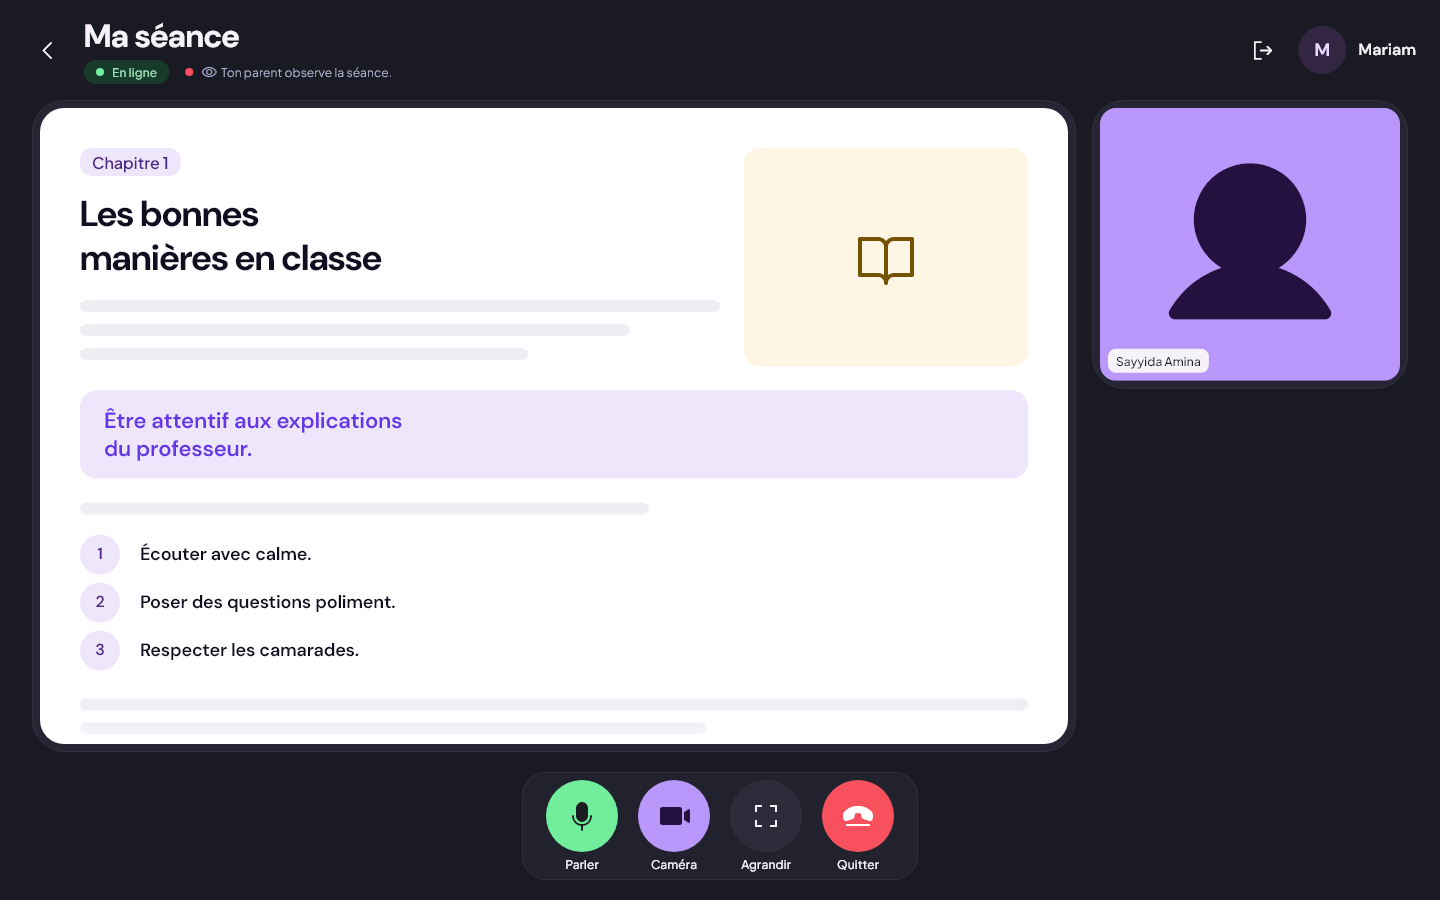
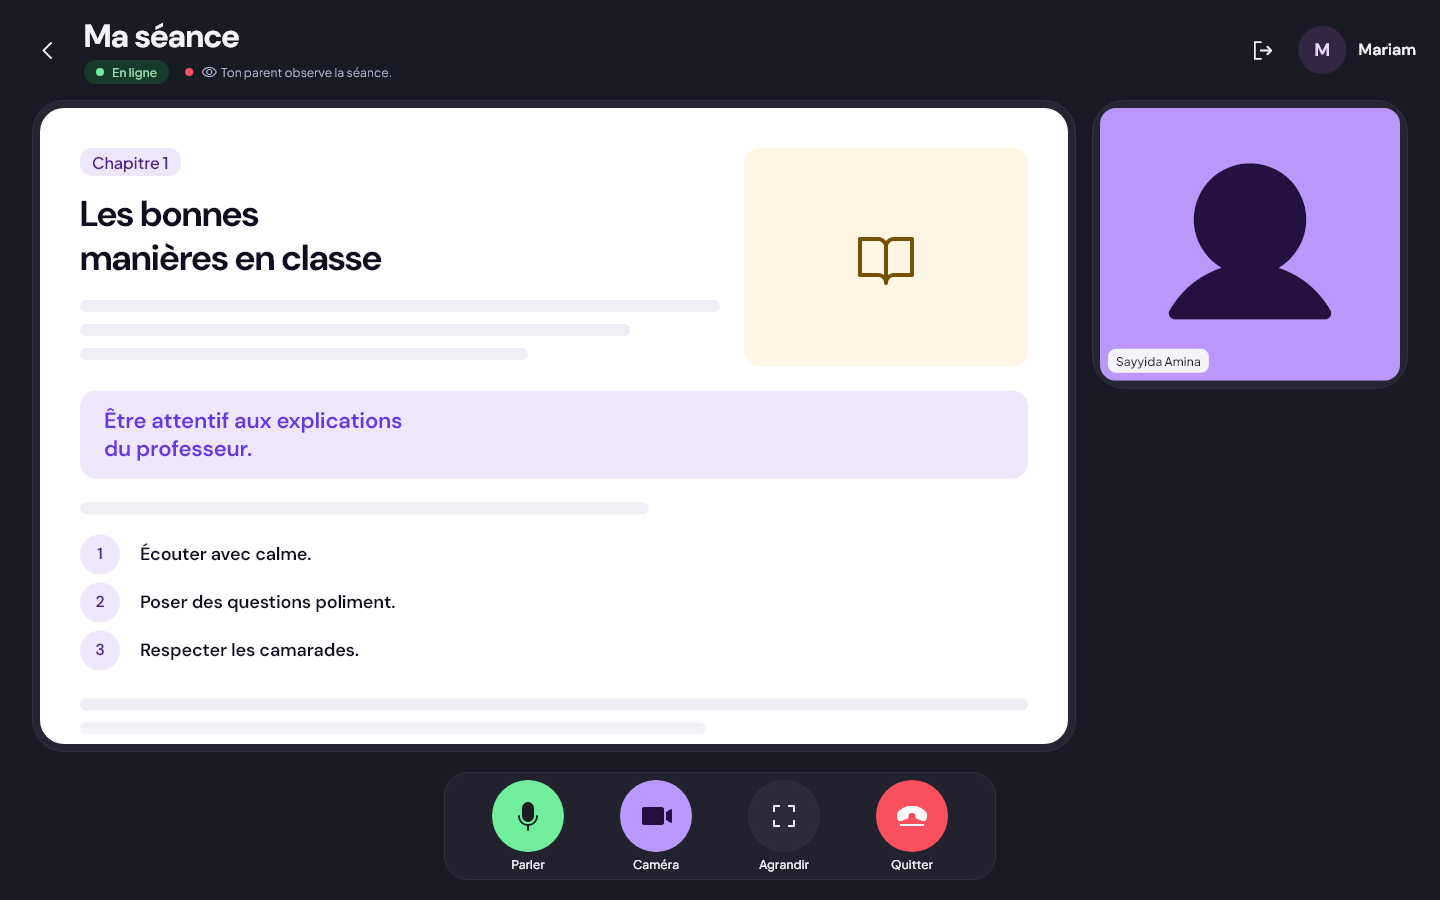
recette(CL): T3 apres relecture (vignette web etroit, dock desktop, fin guidee), captures

Changed region(s): [[0.3438, 0.84, 0.5, 0.9644], [0.5312, 0.84, 0.6562, 0.9644]]

diff --git a/05_recette/CL/T3.md b/05_recette/CL/T3.md
@@ -32,3 +32,16 @@ Date : 26/09/2026. Commit `b9bf2f9` sur `ui/classe-v1` (poussé). Durée ≈ 15 
 - L'étiquette « Sayyida Amina » de la vignette suit l'échelle enfant : elle est un peu plus grande que sur l'image mobile.
 - La fin guidée après une sortie volontaire affiche « La séance est terminée. » : la spec ne donne pas de texte guidé pour une sortie avant la fin. Rien n'a été inventé.
 - Le serveur n'est pas branché (K-28) : `ResultatSeance` n'est rendu que dans `/demo/salle` ; le branchement de `/salle` se fera en T7.
+
+## Retours de relecture (commit `b271c69`)
+
+- Web étroit guidé : vignette à 240 × 218 (≈ 39 % du support, rapport 1,1 gardé), qui descend jusqu'à l'encadré ; les trois lignes, l'encadré (demi-largeur, deux lignes) et la ligne suivante restent dans la colonne à côté d'elle. La carte s'arrête après son contenu : un espace du fond la sépare du dock, comme sur l'image (il est plus haut que sur l'image, ≈ 220 contre ≈ 86, car la liste est plus serrée).
+- Dock guidé desktop : cases égales, centres espacés de 128 (image ≈ 130), pilule de 552 (image ≈ 555).
+- CLV-09 guidée après Quitter : coche au ton succès, comme la fin serveur, pour que l'icône ne contredise pas « La séance est terminée. ».
+- Tests ajoutés : colonne et carte ajustée en web étroit, écarts du dock desktop, icône de la fin guidée après sortie. `test/features/salle_seance` : 131 verts, 68 ignorés (captures).
+- Captures `cl_05_guidee_visite_{640x1000@1,1440x900@1}_*` refaites et relues ; les autres sont identiques.
+
+## À arbitrer par le directeur (non modifié)
+
+- Disques guidés à 72 dp (spec : cibles de 72) contre ≈ 88 (mobile) et ≈ 90 (web étroit) sur les planches.
+- CLV-09 : « Retour à la Classe » (standard) en lavande douce à encre sombre, « Retour à l'accueil » (guidée) en violet plein à encre blanche. Cela vient d'`ActionPrincipale`, qui existait avant T3 et attend déjà l'arbitrage du directeur.
